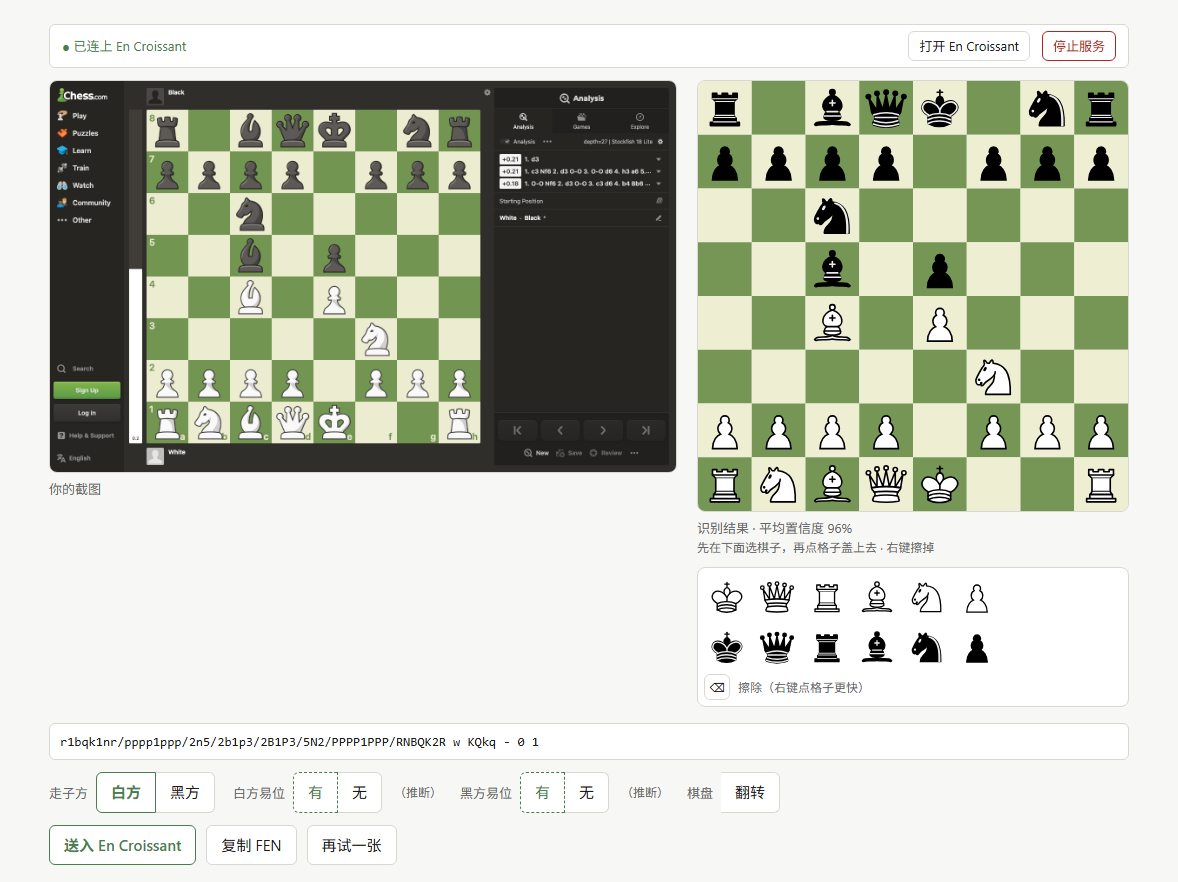
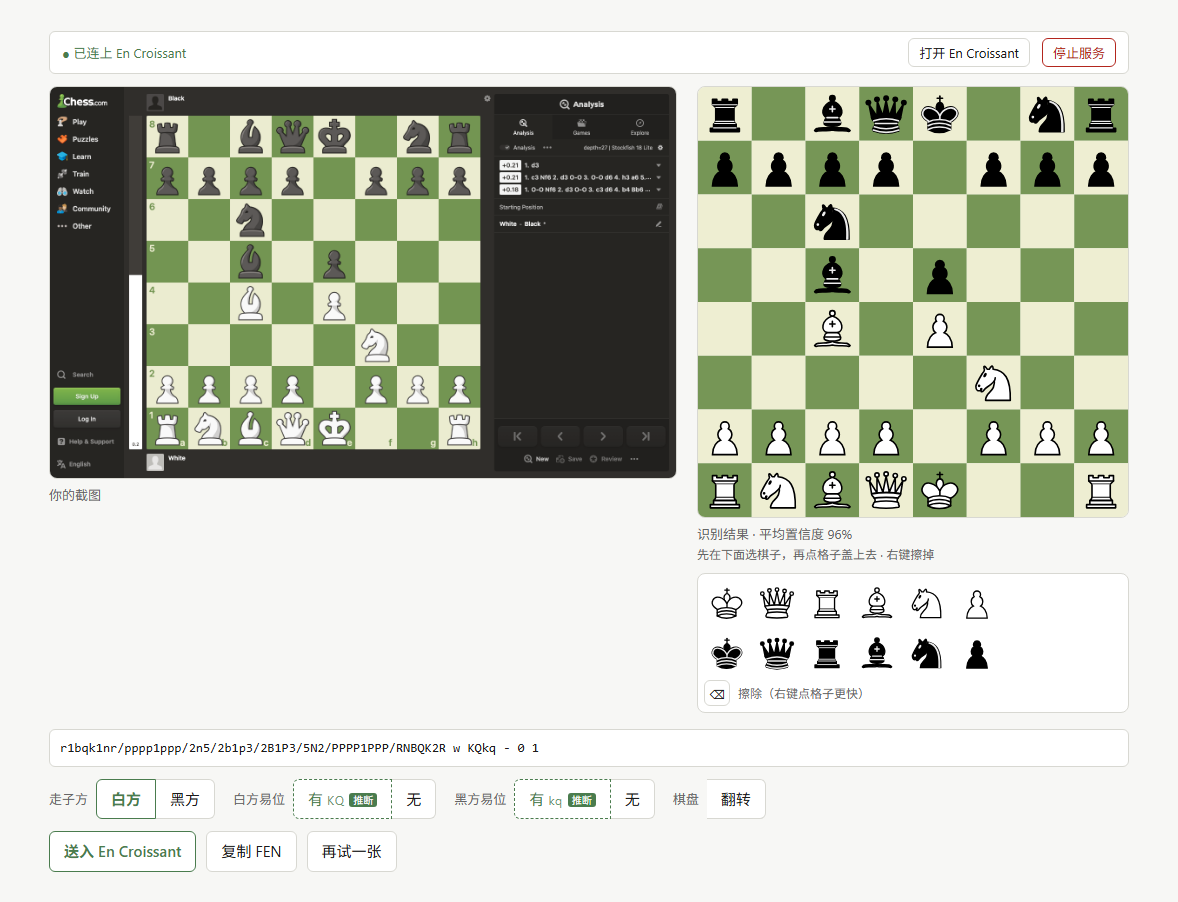
fix: put the inference mark inside the selected castling option

diff --git a/src/main.js b/src/main.js
@@ -2,7 +2,7 @@ import { createRecognizer, resolveOrientation } from "@scoriiu/fenshot";
 import { renderBoardSvg } from "./board.mjs";
 import { pickImageFile } from "./paste.mjs";
 import { composeFen, flipPlacement, isPlausible } from "./fen.mjs";
-import { castlingOptions, resolveRights } from "./castling.mjs";
+import { castlingOptions, describeChoice, resolveRights } from "./castling.mjs";
 import { stampSquare } from "./edit.mjs";
 import { PALETTE, PIECE_URLS } from "./piece-urls.mjs";
 import { findHighlights, inferTurn, samplePoints } from "./highlight.mjs";
@@ -251,28 +251,33 @@ async function copyFen() {
   render();
 }
 
-/** 每一侧一组「有 | 无」。有 = 位置上支持的都算（用户明确声称），
- *  无 = 一律没有；auto 时按推断结果选中，并标注「推断」。 */
+/** 每一侧一组「有 | 无」。推断结论写在被选中的那个按钮*里面*
+ *  （如「有 KQ 推断」），而不是挂在组后面。 */
 function castlingControls() {
   const placement = effectivePlacement();
-  const rights = resolvedRights();
   return ["w", "b"]
     .map((side) => {
       const options = castlingOptions(placement, side, state.highlights ?? []);
       const choice = state.castling?.[side] ?? "auto";
-      const on = rights[side] !== "-";
+      const view = describeChoice(options, choice);
       const label = side === "w" ? "白方" : "黑方";
-      const marker =
-        choice === "auto" ? `<span class="inferred-mark" title="${escapeHtml(options.reason)}">（推断）</span>` : "";
-      const onDisabled = options.canHave ? "" : `disabled title="${escapeHtml(options.reason)}"`;
+      const badge = (where) =>
+        view.badge === where
+          ? `<span class="inferred-badge" title="${escapeHtml(view.reason)}">推断</span>`
+          : "";
+      const onDisabled = view.canHave
+        ? ""
+        : `disabled title="${escapeHtml(view.reason)}"`;
       return `<div class="control">
         <span class="control-label">${label}易位</span>
         <div class="toggle">
-          <button type="button" class="${choice !== "auto" && on ? "on" : choice === "auto" && on ? "auto-on" : ""}"
-            data-action="castle-${side}-on" ${onDisabled}>有</button>
-          <button type="button" class="${!on && choice !== "auto" ? "on" : !on ? "auto-on" : ""}"
-            data-action="castle-${side}-off">无</button>
-        </div>${marker}
+          <button type="button" class="${view.onSelected ? (view.badge === "on" ? "auto-on" : "on") : ""}"
+            data-action="castle-${side}-on" ${onDisabled}>有${
+              view.onSelected && view.letters ? ` <span class="letters">${view.letters}</span>` : ""
+            }${badge("on")}</button>
+          <button type="button" class="${view.offSelected ? (view.badge === "off" ? "auto-on" : "on") : ""}"
+            data-action="castle-${side}-off">无${badge("off")}</button>
+        </div>
       </div>`;
     })
     .join("");

diff --git a/src/style.css b/src/style.css
@@ -406,13 +406,6 @@ table.fixtures tr.pass td:nth-child(3) {
   background: color-mix(in srgb, var(--accent) 18%, transparent);
 }
 
-.inferred-mark {
-  margin-left: 4px;
-  font-size: 12px;
-  color: var(--muted);
-  cursor: help;
-}
-
 .toggle button.auto-on {
   border-color: var(--accent);
   border-style: dashed;
@@ -422,4 +415,22 @@ table.fixtures tr.pass td:nth-child(3) {
 .toggle button[disabled] {
   opacity: 0.4;
   cursor: not-allowed;
+}
+
+.inferred-badge {
+  margin-left: 5px;
+  padding: 0 4px;
+  border-radius: 3px;
+  background: var(--accent);
+  color: #fff;
+  font-size: 10px;
+  line-height: 1.6;
+  vertical-align: 1px;
+  cursor: help;
+}
+
+.toggle button .letters {
+  font-size: 12px;
+  opacity: 0.8;
+  letter-spacing: 0.05em;
 }

diff --git a/README.md b/README.md
@@ -148,7 +148,7 @@ lichess 的 cburnett 棋子素材，黑白一眼能分开。
 | 控件 | 什么时候要动 |
 |---|---|
 | **走子方** | **会自动推断**：棋子平台都会把上一步的两个格子染成黄绿，染色的那一格上站的是白子 → 说明白方刚走 → 轮到黑方。推断成功时标签会写「走子方（高亮格推断：白刚走）」，你点一下任一按钮就会覆盖它、标签也恢复成「走子方」。截图里没有高亮（静态图、书上的棋谱图）时回落到白方 |
-| **易位权** | **每一侧各一组「有 / 无」**：`白方易位 [有][无]（推断）`、`黑方易位 [有][无]（推断）`。默认值按推断自动选中，此时后面标着「（推断）」，鼠标悬停会说明依据（如"王和车都在原位"、"上一步动过 e1 的王"）。你一点按钮就变成明确指定、标记消失。**位置上根本做不到的那一侧，「有」是禁用的**（比如王已不在 e1） |
+| **易位权** | **每一侧各一组「有 / 无」**，推断结论写在**被选中那个按钮里面**：<br>`白方易位 [有 KQ 推断][无]` — 有权利，推断出的字母直接显示在「有」上<br>`黑方易位 [有][无 推断]` — 没权利（王不在 e8），角标落在「无」上<br>悬停那个「推断」角标会说明依据（"王和车都在原位"、"上一步动过 e1 的王"）。你一点按钮就变成明确指定、角标消失。**位置上根本做不到的那一侧，「有」是灰的**（比如王已不在 e1） |
 | **旋转** | 棋盘上下颠倒了才点。黑白视角的截图它会自动判断 |
 
 ### 5. 点「送入 En Croissant」
